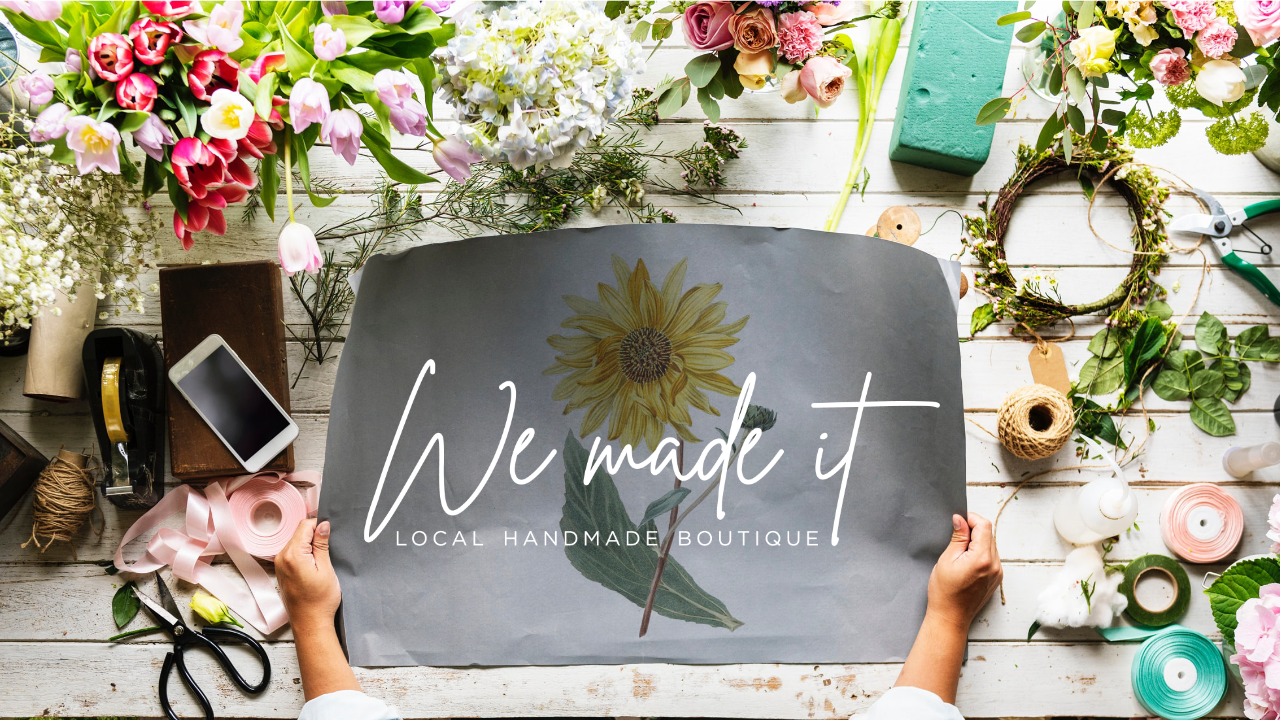
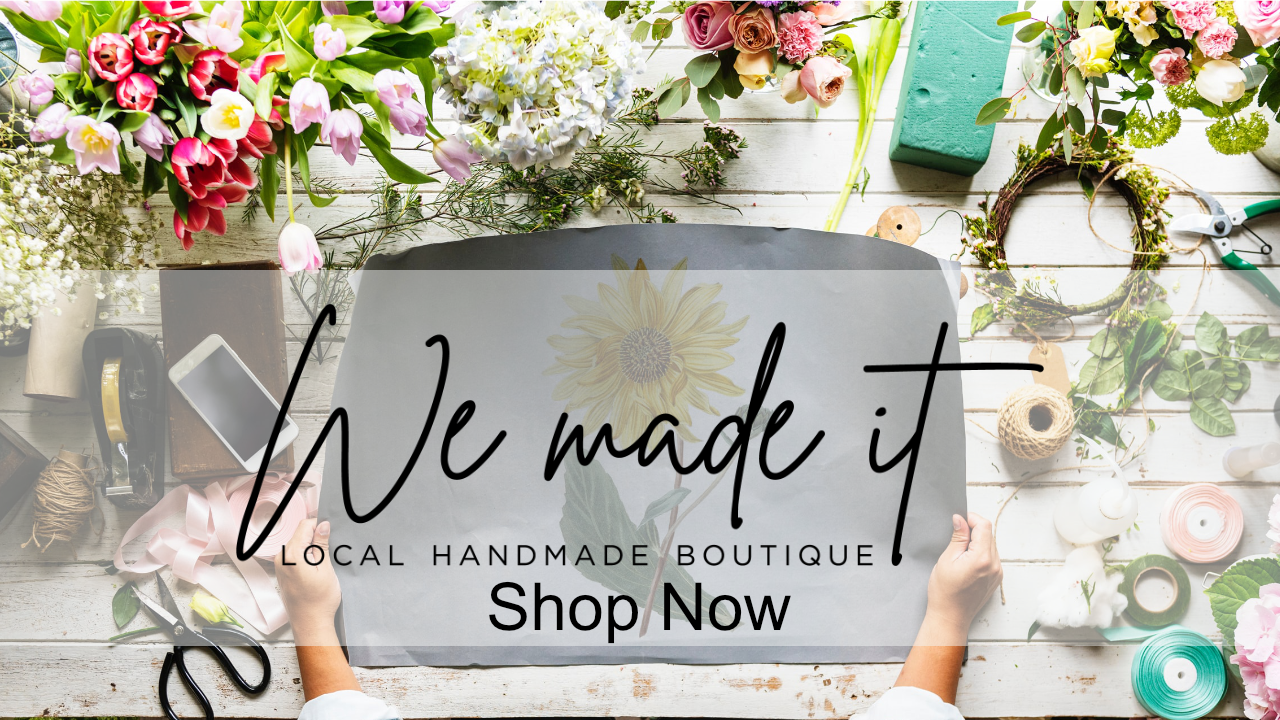
Working on getting Inventory and Variations added for Products

diff --git a/pages/Products/[product].js b/pages/Products/[product].js
@@ -1,21 +1,36 @@
 import React from 'react';
 import Layout from '../../components/Layout/Layout';
 import { useRouter } from 'next/router';
+import { useEffect, useState } from 'react';
 
 export default function ShopProduct({ data, setCart, cart }) {
-	const itemName = data.items.object.itemData.name;
-	const price =
-		data.items.object.itemData.variations[0].itemVariationData.priceMoney
-			.amount;
-	const roundedPrice = (price / 100).toFixed(2);
-	const description = data.items.object.itemData.description;
+	console.log('New Data Received: ', data);
+	const itemName = data.itemName;
+	const [price, setPrice] = useState(
+		(data.itemVarData[0].itemVariationData.priceMoney.amount / 100).toFixed(2),
+	);
+	const [itemID, setItemID] = useState(
+		data.itemVarData[0].itemVariationData.itemId,
+	);
+	const description = data.description;
 	const router = useRouter();
 
 	let quantity;
+	let selectedItem;
 
 	const onInputChange = (e) => {
 		e.preventDefault();
 		quantity = e.target.value;
+	};
+
+	const onSelectChange = (e) => {
+		selectedItem = e.target.value;
+		setPrice(
+			(
+				data.itemVarData[selectedItem].itemVariationData.priceMoney.amount / 100
+			).toFixed(2),
+		);
+		console.log(e.target.value);
 	};
 
 	const handleCart = (e) => {
@@ -26,6 +41,34 @@ export default function ShopProduct({ data, setCart, cart }) {
 
 	const showSubmitSuccess = () => {
 		document.getElementById('success').style.visibility = 'visible';
+	};
+
+	const getItemVarData = () => {
+		if (data.itemVarData) {
+			return (
+				<div className='flex py-4 space-x-4'>
+					<div className='relative'>
+						<div className='text-center left-0 pt-2 right-0 absolute block text-xs uppercase text-gray-400 tracking-wide font-semibold'>
+							Variation
+						</div>
+						<select
+							onChange={onSelectChange}
+							className='cursor-pointer appearance-none rounded-xl border border-purple-200 pl-4 pr-8 h-14 flex items-end pb-1'
+						>
+							{data.itemVarData.map((item, i) => {
+								return (
+									<option value={i}>
+										{data.itemVarData[i].itemVariationData.name}
+									</option>
+								);
+							})}
+						</select>
+					</div>
+				</div>
+			);
+		} else {
+			return <div></div>;
+		}
 	};
 
 	return (
@@ -44,7 +87,7 @@ export default function ShopProduct({ data, setCart, cart }) {
 				<div className='flex flex-col md:flex-row -mx-4'>
 					<div className='md:flex-1 px-4 order-2 sm:order-1'>
 						<img
-							src='/big-purple-splash.png'
+							src='/pictureComingSoon.png'
 							alt=''
 							height='500px'
 							width='500px'
@@ -60,7 +103,7 @@ export default function ShopProduct({ data, setCart, cart }) {
 								<div className='rounded-lg bg-gray-100 flex py-2 px-3'>
 									<span className='text-indigo-400 mr-1 mt-1'>$</span>
 									<span className='font-bold text-indigo-600 text-3xl'>
-										{roundedPrice}
+										{price}
 									</span>
 								</div>
 							</div>
@@ -82,6 +125,7 @@ export default function ShopProduct({ data, setCart, cart }) {
 									placeholder='Quantity'
 									onChange={onInputChange}
 								/>
+								{getItemVarData()}
 
 								<button
 									type='submit'
@@ -99,21 +143,6 @@ export default function ShopProduct({ data, setCart, cart }) {
 						>
 							<h1>Added to Cart!</h1>
 						</div>
-
-						{/* <div class='flex py-4 space-x-4'>
-							<div class='relative'>
-								<div class='text-center left-0 pt-2 right-0 absolute block text-xs uppercase text-gray-400 tracking-wide font-semibold'>
-									Colour
-								</div>
-								<select class='cursor-pointer appearance-none rounded-xl border border-purple-200 pl-4 pr-8 h-14 flex items-end pb-1'>
-									<option>Blue</option>
-									<option>Purple</option>
-									<option>White</option>
-									<option>Green</option>
-									<option>Red</option>
-								</select>
-							</div>
-						</div> */}
 
 						<div>
 							<p className='text-xs leading-none text-gray-500'>

diff --git a/pages/index.js b/pages/index.js
@@ -1,46 +1,27 @@
 import AboutStore from '../components/About/AboutStore';
 import Location from '../components/About/Location';
-import Categories from '../components/Categories/Categories';
 import Headers from '../components/Layout/Headers';
 import Layout from '../components/Layout/Layout';
 import React from 'react';
 import Image from 'next/image';
+import Link from 'next/link';
 
-export default function Home({ data, cart }) {
-	if (data.length) {
-		const catData = [{ image: data[0].url, name: 'Shop All' }];
-		return (
-			<Layout cart={cart}>
-				<Headers title='Shop Now' />
-				<Image src='/homepagephoto.png' height={720} width={1280} />
-				<Categories catData={catData} />
-				<Headers title='Our Story' />
-				<AboutStore />
-				<Location />
-			</Layout>
-		);
-	} else {
-		return (
-			<Layout>
-				<Headers title='Our Story' />
-				<AboutStore />
-				<Location />
-			</Layout>
-		);
-	}
-}
-
-export async function getServerSideProps(context) {
-	try {
-		const res = await fetch('https://jsonplaceholder.typicode.com/photos');
-		const data = await res.json();
-		return {
-			props: { data },
-		};
-	} catch (error) {
-		const data = error;
-		return {
-			props: { data },
-		};
-	}
+export default function Home({ cart }) {
+	return (
+		<Layout cart={cart}>
+			<Link
+				href={{
+					pathname: `/Shop/[...cat]`,
+					query: { cat: 'ShopAll', name: 'Shop All', cursor: null },
+				}}
+			>
+				<a className='shadow-lg cursor-pointer rounded transform hover:scale-105 duration-300 ease-in-out m-5'>
+					<Image src='/homepagephoto.png' height={720} width={1280} />
+				</a>
+			</Link>
+			<Headers title='Our Story' />
+			<AboutStore />
+			<Location />
+		</Layout>
+	);
 }

diff --git a/components/Layout/Navigation.js b/components/Layout/Navigation.js
@@ -13,12 +13,12 @@ function Navigation({ cart }) {
 			<div className='container px-4 mx-auto flex flex-wrap items-center justify-between w-full'>
 				<div className='w-full relative flex justify-between lg:w-auto lg:static lg:block lg:justify-start'>
 					<Link href='/'>
-						<a className='text-sm font-bold leading-relaxed inline-block mr-4 py-2 whitespace-no-wrap uppercase text-white'>
+						<a className='text-sm font-bold leading-relaxed inline-block mr-4 pt-5 whitespace-no-wrap uppercase text-white'>
 							<Image
 								src='/Plain-Logo-White.png'
 								alt='Plain Logo'
-								height={200}
-								width={200}
+								height={106}
+								width={300}
 							/>
 						</a>
 					</Link>

diff --git a/components/About/AboutStore.js b/components/About/AboutStore.js
@@ -5,7 +5,7 @@ function AboutStore() {
 	return (
 		<div className='w-full flex justify-center'>
 			<div className='container flex flex-row flex-wrap justify-center'>
-				<div className='w-1/2 text-center leading-loose space-y-2'>
+				<div className='w-2/3 text-center leading-loose space-y-2'>
 					<p>
 						Hello! My name is Amanda VanGoor and I am the owner behind We Made
 						It.

diff --git a/components/About/Location.js b/components/About/Location.js
@@ -2,7 +2,7 @@ import React from 'react';
 
 function Location() {
 	return (
-		<div className='w-full flex justify-center my-5'>
+		<div className='w-1/3 flex justify-center my-5'>
 			<div class='bg-white shadow overflow-hidden sm:rounded-lg container'>
 				<div class='px-4 py-5 sm:px-6'>
 					<h3 class='text-2xl leading-6 font-medium text-dark-purple text-center'>

diff --git a/pages/Shop/[...cat].js b/pages/Shop/[...cat].js
@@ -20,7 +20,7 @@ export default function ShopCategories({ data, cat, name, cart }) {
 							<ProductCards
 								item={items[i]}
 								title={items[i].itemData.name}
-								image='/small-purple-splash.png'
+								image='/pictureComingSoon.png'
 								key={i}
 								itemID={items[i].id}
 							/>
